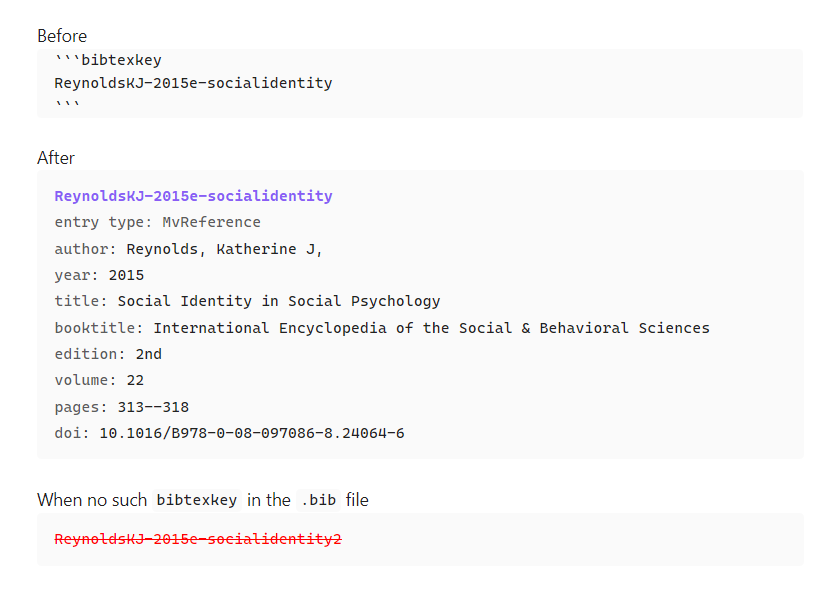
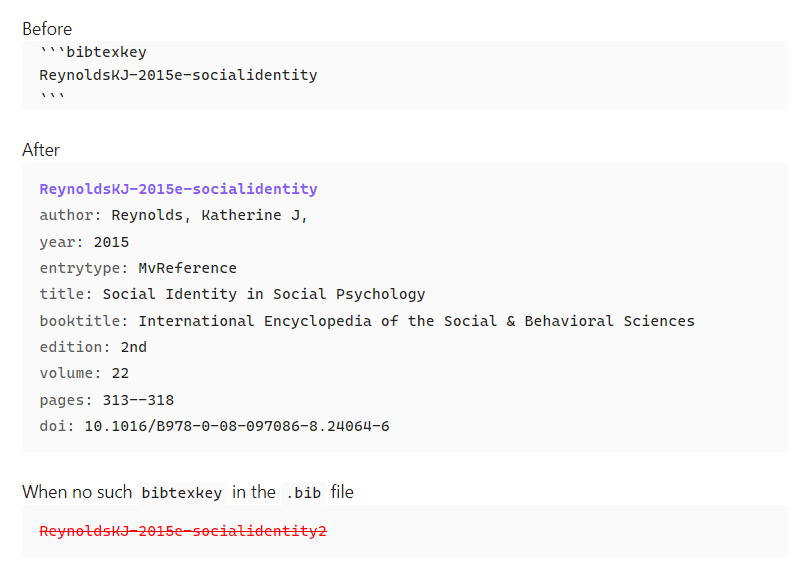
version 0.1

diff --git a/main.ts b/main.ts
@@ -79,8 +79,8 @@ export default class BibtexEntryViewPlugin extends Plugin {
                         
                         // Build the styled entry programmatically.
                         entryCode.createEl('span', { text: parsedEntry.bibtexKey, cls: 'bibtex-key' });
-                        entryCode.createEl('span', { text: '\nentry type: ', cls: 'bibtex-field-name'})
-                        entryCode.createEl('span', { text: parsedEntry.entryType, cls: 'bibtex-entrytype' })
+                        //entryCode.createEl('span', { text: '\nentry type: ', cls: 'bibtex-field-name'})
+                        //entryCode.createEl('span', { text: parsedEntry.entryType, cls: 'bibtex-entrytype' })
                         
                         parsedEntry.fields.forEach((field) => {
                             entryCode.appendText('\n');
@@ -232,7 +232,7 @@ export default class BibtexEntryViewPlugin extends Plugin {
             }
             
             // --- UPDATED: Add 'entrytype' to the map to be sorted and rendered like other fields ---
-            // fields.set('entrytype', `entrytype = {${entryType}}`);
+            fields.set('entrytype', `entrytype = {${entryType}}`);
             
             // Step 3: Remove fields we never want to show.
             const fieldsToRemove = ['abstract', 'creationdate', 'modificationdate', 'citationkey', 'language', 'keywords'];
@@ -243,7 +243,7 @@ export default class BibtexEntryViewPlugin extends Plugin {
             
             // This array defines the exact order we want the fields to appear in.
             const priorityOrder = [
-                'author', 'editor', 'year', 'title', 'subtitle', 
+                'author', 'editor', 'year', 'entrytype', 'title', 'subtitle', 
                 'booktitle', 'booksubtitle', 'edition', 'journal', 'series', 'volume', 
                 'number', 'pages', 'address', 'publisher'
             ];

diff --git a/README.md b/README.md
@@ -1,4 +1,4 @@
-# Obsidian plugin bibtex entry view
+# Obsidian.md plugin bibtex entry view
 
 ## what is it
 
@@ -20,8 +20,13 @@
 
 ### in the settings 
 
-- put the `.bib` file in the root of the vault. And, in the settings of the plugin, you can choose the `.bib` file.
+- Put the `.bib` file in the root of the vault. And, in the settings of the plugin, you can choose the `.bib` file.
 - Or, make a symbolic link to the `.bib` file in the root of the vault. And, you can choose it in the settings of the plugin.
+
+## what to do next
+
+- Option for Sorting the fields in the order of what a user chooses in the plugin settings.
+- Option for hiding the field that a user chooses in the plugin settings.
 
 ## license
 
